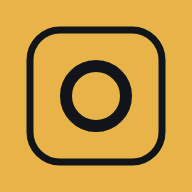
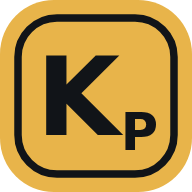
App mark: the KCGM framed gold squircle with K-subscript-P
Same mark as the KCGM plant app (gold squircle, dark inner frame, bold K),
with a subscript P for PhotoMap — in the desktop header, the phone header,
the browser tab (icon.svg) and the home-screen icons.

Claude-Session: https://claude.ai/code/session_01CxJEc1Hy1WUCaqvM2jGHtb

diff --git a/Photo-Map.html b/Photo-Map.html
@@ -4,7 +4,8 @@
 <meta charset="UTF-8" />
 <meta name="viewport" content="width=device-width, initial-scale=1.0" />
 <meta name="theme-color" content="#ffffff" />
-<link rel="manifest" href="manifest.webmanifest?v=7" />
+<link rel="manifest" href="manifest.webmanifest?v=8" />
+<link rel="icon" href="icon.svg" type="image/svg+xml" />
 <link rel="preconnect" href="https://fonts.googleapis.com" /><link rel="preconnect" href="https://fonts.gstatic.com" crossorigin />
 <link href="https://fonts.googleapis.com/css2?family=Roboto+Mono:wght@700&display=swap" rel="stylesheet" />
 <title>PhotoMap</title>
@@ -38,8 +39,7 @@
   header{height:var(--header-h);display:flex;align-items:center;gap:14px;padding:0 16px;
     background:var(--panel);border-bottom:1px solid var(--line);position:relative;z-index:1200;}
   .brand{display:flex;align-items:center;gap:9px;flex:0 0 auto;}
-  .brand .mark{width:26px;height:26px;border-radius:8px;position:relative;background:var(--gold);box-shadow:inset 0 0 0 2px var(--gold),inset 0 0 0 3.5px #111418;}   /* the KCGM app mark: gold tile, dark inner outline */
-  .brand .mark::after{content:"";position:absolute;inset:0;margin:auto;width:9px;height:9px;border-radius:50%;border:2.5px solid #111418;box-sizing:border-box;}
+  .brand .pm-mark{flex-shrink:0;display:block;}   /* the KCGM app mark, Kₚ for PhotoMap */
   .brand h1{font-family:var(--font);font-weight:700;font-size:17px;margin:0;color:var(--ink);}
   .brand h1 span{color:var(--accent);}
   .menubar{display:flex;align-items:center;gap:2px;margin-left:10px;height:100%;}
@@ -627,7 +627,8 @@
   body.mobile>*:not(#mroot){display:none!important;}
   .m-scr{position:absolute;inset:0;display:flex;flex-direction:column;overflow:hidden;}
   .m-head{background:var(--panel);border-bottom:1px solid var(--line);padding:14px 16px;display:flex;align-items:center;gap:10px;flex-shrink:0;}
-  .m-brand{font-size:18px;font-weight:700;color:var(--ink);}
+  .m-brand{font-size:18px;font-weight:700;color:var(--ink);display:flex;align-items:center;gap:8px;}
+  .m-brand .pm-mark{flex-shrink:0;}
   .m-brand span{color:var(--accent);}
   .m-sub{font-family:var(--font);font-size:10px;color:var(--dim);font-variant-numeric:tabular-nums}
   .m-chip{font-family:var(--font);font-size:10px;border-radius:999px;padding:4px 10px;border:1px solid var(--line2);color:var(--muted);background:var(--panel);font-variant-numeric:tabular-nums}
@@ -727,7 +728,7 @@
 <body>
 
 <header>
-  <div class="brand"><div class="mark"></div><div class="brand-t"><h1>Photo<span>Map</span></h1><span class="savestat" id="saveStatus" title="When the project file was last saved"></span></div><span class="build" id="buildStamp" style="display:none" title="When this copy of the app was published — if it's older than the latest change, you're running a stale copy"></span></div>
+  <div class="brand"><svg class="pm-mark" viewBox="0 0 64 64" width="30" height="30" aria-hidden="true"><rect width="64" height="64" rx="18" fill="#e8b44a"/><rect x="6" y="6" width="52" height="52" rx="13" fill="none" stroke="#111418" stroke-width="2.5"/><text x="26" y="45" text-anchor="middle" font-family="system-ui,Segoe UI,Arial,sans-serif" font-weight="800" font-size="36" fill="#111418">K</text><text x="46.5" y="50" text-anchor="middle" font-family="system-ui,Segoe UI,Arial,sans-serif" font-weight="800" font-size="17" fill="#111418">P</text></svg><div class="brand-t"><h1>Photo<span>Map</span></h1><span class="savestat" id="saveStatus" title="When the project file was last saved"></span></div><span class="build" id="buildStamp" style="display:none" title="When this copy of the app was published — if it's older than the latest change, you're running a stale copy"></span></div>
   <nav class="menubar" id="menubar">
     <div class="mb"><button class="mb-btn" type="button">File</button><div class="mb-drop">
       <button class="mi" id="btnOpenJson" type="button" title="Open a saved project file (.json). The current project is closed first — you'll be asked.">Open project…</button>
@@ -4394,6 +4395,7 @@ function parseShareHash(){
 /* ================= MOBILE FIELD UI =================
    Phone-sized touch screens get an actions-first UI at the SAME link. It reads the latest
    pack.json from the private data repo (token pasted once) and pushes ticks/notes back. */
+const PM_MARK=w=>'<svg class="pm-mark" viewBox="0 0 64 64" width="'+w+'" height="'+w+'" aria-hidden="true"><rect width="64" height="64" rx="18" fill="#e8b44a"/><rect x="6" y="6" width="52" height="52" rx="13" fill="none" stroke="#111418" stroke-width="2.5"/><text x="26" y="45" text-anchor="middle" font-family="system-ui,Segoe UI,Arial,sans-serif" font-weight="800" font-size="36" fill="#111418">K</text><text x="46.5" y="50" text-anchor="middle" font-family="system-ui,Segoe UI,Arial,sans-serif" font-weight="800" font-size="17" fill="#111418">P</text></svg>';
 function isMobile(){ try{ return matchMedia("(pointer:coarse)").matches && Math.min(screen.width,screen.height)<600 && !localStorage.getItem("pmForceDesktop"); }catch(e){ return false; } }
 let mPack=null, mGeo=null, mMiniMap=null, mInsetMap=null, mInsetMapL=null, mInsetCur=null, mHomeMap=null, mHomeBB=null;
 let _mpRaw=null,_mpObj=null;
@@ -4533,7 +4535,7 @@ function mStepDone(a,i){ if(a._new){ const x=mNewActs()[a._ni]; return !!(x&&x.s
 function mScr(html){ [mMiniMap,mInsetMap,mInsetMapL,mHomeMap].forEach(m=>{ if(m){ try{ m.remove(); }catch(e){} } }); mMiniMap=null; mInsetMap=null; mInsetMapL=null; mInsetCur=null; mHomeMap=null; mHomeBB=null; mSoftRefresh=null; document.getElementById("mroot").innerHTML='<div class="m-scr">'+html+'</div>'; if(mToastEl) document.getElementById("mroot").appendChild(mToastEl); }
 function mShowSetup(msg){
   const g=ghCfg();
-  mScr('<div class="m-head"><div class="m-brand">Photo<span>Map</span> Field</div></div>'
+  mScr('<div class="m-head"><div class="m-brand">'+PM_MARK(26)+'<div>Photo<span>Map</span> Field</div></div></div>'
     +'<div class="m-body"><div class="m-sec"><div class="m-lab">DATA REPOSITORY</div><input class="m-in" id="mRepo" value="'+esc(g.repo)+'" autocomplete="off" />'
     +'<div class="m-lab">ACCESS TOKEN</div><input class="m-in" id="mTok" type="password" placeholder="github_pat_…" value="'+esc(g.token)+'" />'
     +'<div class="m-lab">YOUR NAME (FOR THE CHANGE HISTORY)</div><input class="m-in" id="mWhoIn" placeholder="e.g. Sam" value="'+esc(mUserName(true))+'" autocomplete="off" />'
@@ -4549,7 +4551,7 @@ async function mLoadPack(silent){
   const cfg=ghCfg();
   if(!cfg.token){ mShowSetup(); return; }
   const lst=document.getElementById("mList"), keepScroll=(silent&&lst)?lst.scrollTop:null;
-  if(!silent) mScr('<div class="m-head"><div class="m-brand">Photo<span>Map</span> Field</div></div><div class="m-body"><div class="m-note" style="padding-top:40px">Loading the latest pack…</div></div>');
+  if(!silent) mScr('<div class="m-head"><div class="m-brand">'+PM_MARK(26)+'<div>Photo<span>Map</span> Field</div></div></div><div class="m-body"><div class="m-note" style="padding-top:40px">Loading the latest pack…</div></div>');
   try{
     const text=await ghGetRaw(cfg,"pack.json");
     if(!text){ if(!silent) mShowSetup("No pack.json in "+cfg.repo+" yet — open the project on the desktop once (it syncs to the phone automatically)."); return; }
@@ -4667,7 +4669,7 @@ function mShowList(){
   const packFu=new Set((mPack.actions||[]).map(a=>a.fu).filter(Boolean));   // once merged, the pack's copy is the one shown (and edited)
   const news=mNewActs().map((x,i)=>({id:"n"+i,_new:true,_ni:i,text:x.text,steps:x.steps||[],photos:[],done:!!x.done,u:x.u})).filter(x=>!(x.u&&packFu.has(x.u)));
   const acts=news.concat(packActs);   // phone-created actions sit on top until they're merged on desktop
-  mScr('<div class="m-head"><div style="flex:1;display:flex;flex-direction:column;gap:2px;min-width:0;"><div class="m-brand">Photo<span>Map</span> Field</div>'
+  mScr('<div class="m-head"><div style="flex:1;display:flex;flex-direction:column;gap:2px;min-width:0;"><div class="m-brand">'+PM_MARK(26)+'<div>Photo<span>Map</span> Field</div></div>'
     +'<div class="m-sub">'+esc(mPack.project||"")+' · exported '+(mPack.exportedAt?new Date(mPack.exportedAt).toLocaleString(undefined,{day:"numeric",month:"short",hour:"2-digit",minute:"2-digit"}):"")+' · app '+new Date(document.lastModified).toLocaleString(undefined,{day:"numeric",month:"short",hour:"2-digit",minute:"2-digit"})+'</div></div>'
     +mUndoHtml()+'<button class="m-chip" id="mWho" type="button" title="Your name in the change history">\ud83d\udc64 '+esc(mUserName())+'</button><button class="m-chip" id="mRefresh" type="button">REFRESH</button></div>'
     +'<div class="m-body" id="mList">'
